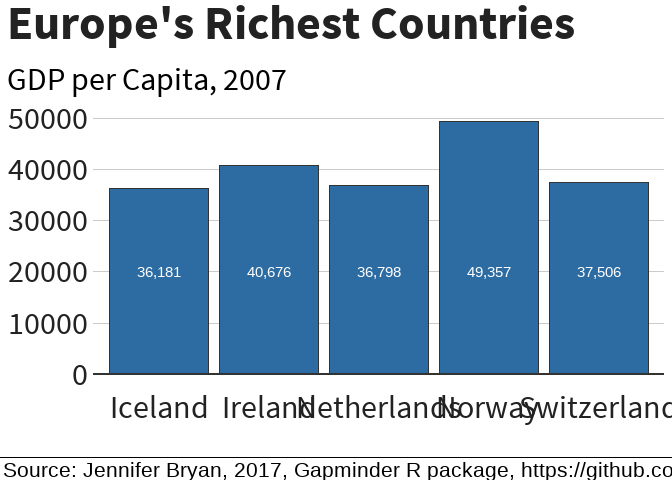
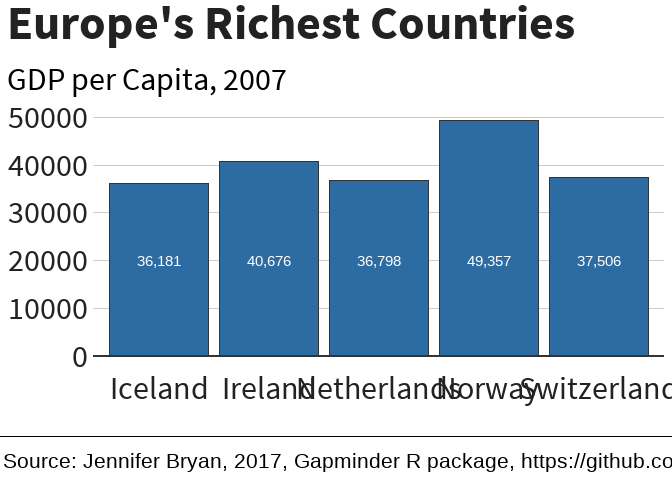
adding hexsticker

diff --git a/README.md b/README.md
@@ -1,7 +1,7 @@
 
 <!-- README.md is generated from README.Rmd. Please edit that file -->
 
-# sccthemes
+# sccthemes <img src="inst/figures/scc-hex.png" align="right" width="120"/>
 
 <!-- badges: start -->
 
@@ -27,7 +27,7 @@ You can install the development version of sccthemes from
 devtools::install_github("thomaszwagerman/sccthemes")
 ```
 
-## Suffolk County Council
+## Suffolk County Council brand and styling
 
 The font and colour codes have been sourced from the [Suffolk County
 Council’s website](https://www.suffolk.gov.uk/), and Google Chrome’s
@@ -152,8 +152,8 @@ finalise_ggplot(
   plot_to_save,
   source = "Jennifer Bryan, 2017, Gapminder R package, https://github.com/jennybc/gapminder",
   save_filepath = "inst/plots/publish_plot_example.png",
-  width_pixels = 640,
-  height_pixels = 450
+  width_pixels = 320,
+  height_pixels = 225
 )
 ```
 
